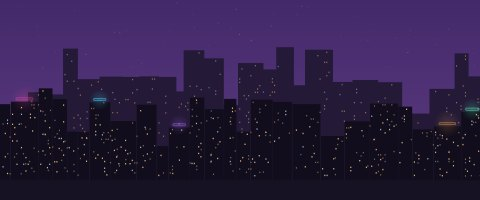
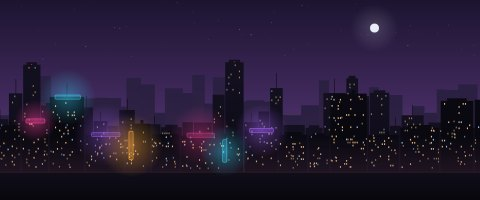
Neon rebuilt: a big city at night, in depth
A hazy far skyline under the city's violet-orange glow, towers with lit
windows, roof details and blinking aircraft lights, near buildings with
vertical and horizontal neon signs that flicker, a kerb line and a wet street
mirroring the signs. CPU lights more windows, GPU brightens the signs, a
notification (or the option) brings rain.

Claude-Session: https://claude.ai/code/session_01KZiqyKDbVFHqr1XB5ozT8u

diff --git a/plasma/wallpapers/org.pillbox.atmosphere/contents/ui/NeonScene.qml b/plasma/wallpapers/org.pillbox.atmosphere/contents/ui/NeonScene.qml
@@ -1,6 +1,9 @@
 /*
- * Neon – a city at night. CPU: more windows light up. GPU: the signs glow.
- * Unread: rain on a wet street that mirrors the signs. Evening: a violet sky.
+ * Neon – a big city at night, in depth. A hazy far skyline under the glow of the
+ * city, towers with lit windows and blinking aircraft lights, near buildings with
+ * roof details, vertical neon signs and a wet street that mirrors them.
+ * CPU: more windows light up. GPU: the signs glow brighter. Unread: rain
+ * (or always, as an option).
  * SPDX-License-Identifier: MIT
  */
 import QtQuick
@@ -9,112 +12,184 @@ import "palette.js" as P
 Item {
     id: scene
     property var env
-    readonly property real hour: env ? env.hour : 15
+    readonly property real hour: env ? env.hour : 22
     readonly property real t: env ? env.time : 0
     readonly property real cpu: env ? env.cpu : 0
     readonly property real gpu: env ? env.gpu : 0
     readonly property real eve: hour >= 17 && hour < 23 ? Math.min(1, (hour - 17) / 1.5) * Math.min(1, (23 - hour) / 1.5) : 0
-    readonly property var sky: P.sky(hour, [110, 60, 170], 0.18 + eve * 0.35)
+    readonly property var sky: P.sky(hour, [110, 60, 170], 0.2 + eve * 0.35)
     readonly property real night: sky.star
-    readonly property real s: height / 1440
-    readonly property real street: height * 0.9
-    readonly property real lit: Math.min(0.95, 0.08 + night * 0.3 + cpu * 0.55)
+    readonly property real dark: Math.max(night, eve * 0.6)
+    readonly property real k: Math.max(0.5, height / 1440)
+    readonly property real street: height * 0.86
+    readonly property real lit: Math.min(0.95, 0.06 + dark * 0.34 + cpu * 0.55)
+    readonly property real signGlow: Math.min(1, 0.12 + dark * 0.55 + gpu * 0.6)
+    readonly property string signMode: (env && env.cfg && env.cfg.NeonSigns) || "mixed"
+    readonly property var signTones: signMode === "pink" ? [[255, 80, 170], [255, 120, 210], [230, 90, 255]]
+                                   : signMode === "cyan" ? [[70, 220, 255], [90, 255, 220], [110, 170, 255]]
+                                   : [[255, 70, 160], [60, 220, 255], [170, 100, 255], [255, 170, 60]]
     property real wet: 0
     Behavior on wet { NumberAnimation { duration: 4000 } }
 
+    // ---------------------------------------------------------------- the city as data (built once per size)
+    // three rows: 0 far (hazy silhouettes), 1 mid (towers with windows), 2 near (wider, roof details)
     readonly property var blocks: {
         const out = []
-        if (width < 50 || height < 50) return out          // not laid out yet
-        for (let row = 0; row < 2; ++row) {
-            let x = -20, i = 0
-            while (x < width + 20) {
-                const w = (70 + P.rnd(i, row * 7 + 1) * 130) * s
-                const h = height * (row === 0 ? 0.3 + P.rnd(i, row * 7 + 2) * 0.38 : 0.16 + P.rnd(i, row * 7 + 3) * 0.3)
-                out.push({ x: x, w: w, h: h, row: row })
-                x += w + (row === 0 ? -10 : 4) * s; i++
+        if (width < 50 || height < 50) return out
+        const rows = [{ h0: 0.28, h1: 0.5, w0: 50, w1: 140, gap: -6 }, { h0: 0.22, h1: 0.56, w0: 70, w1: 170, gap: 6 }, { h0: 0.18, h1: 0.4, w0: 140, w1: 280, gap: 12 }]
+        for (let r = 0; r < 3; ++r) {
+            let x = -30, i = 0
+            const R = rows[r]
+            while (x < width + 30) {
+                const w = (R.w0 + P.rnd(i, r * 11 + 1) * (R.w1 - R.w0)) * k
+                const h = height * (R.h0 + Math.pow(P.rnd(i, r * 11 + 2), 1.6) * (R.h1 - R.h0))
+                out.push({ x: x, w: w, h: h, row: r, id: i, tall: h > height * (R.h1 - 0.06), roof: P.rnd(i, r * 11 + 3) })
+                x += w + R.gap * k; i++
             }
         }
         return out
     }
     readonly property var windowsList: {
-        const out = [], dims = blocks.map(k => [Math.floor((k.w - 14 * s) / (16 * s)), Math.floor((k.h - 24 * s) / (24 * s))])
-        const cells = dims.reduce((n, d) => n + Math.max(0, d[0]) * Math.max(0, d[1]), 0)
-        const keep = Math.min(0.5, 900 / Math.max(1, cells))       // at most ~900 windows, spread over the whole city
-        for (let b = 0; b < blocks.length; ++b) {
-            const k = blocks[b], cols = dims[b][0], rows = dims[b][1]
+        const out = []
+        const mids = blocks.filter(b => b.row >= 1)
+        const cells = mids.reduce((n, b) => n + Math.floor(b.w / (15 * k)) * Math.floor(b.h / (22 * k)), 0)
+        const keep = Math.min(0.55, 1000 / Math.max(1, cells))
+        for (const b of mids) {
+            const cols = Math.floor((b.w - 12 * k) / (15 * k)), rows = Math.floor((b.h - 26 * k) / (22 * k))
             for (let r = 0; r < rows; ++r) for (let c = 0; c < cols; ++c) {
-                const id = b * 1000 + r * 40 + c
-                if (P.rnd(id, 5) < keep) out.push({ x: k.x + 9 * s + c * 16 * s, y: street - k.h + 14 * s + r * 24 * s, row: k.row, k: P.rnd(id, 6), cool: P.rnd(id, 7) < 0.15 })
+                const id = b.row * 100000 + b.id * 400 + r * 20 + c
+                if (P.rnd(id, 5) < keep) out.push({ x: b.x + 8 * k + c * 15 * k, y: street - b.h + 16 * k + r * 22 * k, near: b.row === 2, q: P.rnd(id, 6), cool: P.rnd(id, 7) < 0.18 })
             }
         }
         return out
     }
     readonly property var signs: {
-        const mode = ((env && env.cfg && env.cfg.NeonSigns) || "mixed")
-        const tones = mode === "pink" ? [[255, 80, 170], [255, 110, 200], [230, 90, 255]]
-                    : mode === "cyan" ? [[70, 220, 255], [90, 255, 220], [110, 170, 255]]
-                    : [[255, 80, 170], [70, 220, 255], [170, 110, 255], [255, 180, 70], [90, 255, 190]]
         const out = []
         let n = 0
-        for (let b = 0; b < blocks.length && n < 6; ++b) {
-            const k = blocks[b]
-            if (k.row !== 1 || P.rnd(b, 9) > 0.45 || k.w < 90 * s) continue
-            out.push({ x: k.x + k.w * 0.18, y: street - k.h - 30 * s, w: k.w * 0.64, tone: tones[n % tones.length], i: n }); n++
+        for (const b of blocks) {
+            if (b.row !== 2 || n >= 7 || P.rnd(b.id, 9) > 0.55) continue
+            const vertical = P.rnd(b.id, 10) < 0.6
+            out.push({ x: b.x + b.w * (vertical ? 0.12 : 0.15), y: street - b.h * (vertical ? 0.85 : 0.98) - (vertical ? 0 : 26 * k),
+                       w: vertical ? 34 * k : b.w * 0.75, h: vertical ? b.h * 0.6 : 34 * k, i: n })
+            n++
         }
         return out
     }
 
+    // ---------------------------------------------------------------- sky with the city's glow
     Rectangle {
         anchors.fill: parent
         gradient: Gradient {
             GradientStop { position: 0; color: P.col(scene.sky.top) }
-            GradientStop { position: 0.9; color: P.col(scene.sky.bot) }
+            GradientStop { position: 0.55; color: P.col(P.mix(scene.sky.bot, [120, 60, 150], scene.dark * 0.35)) }
+            GradientStop { position: 0.8; color: P.col(P.mix(scene.sky.bot, [235, 120, 90], scene.dark * 0.35)) }
         }
     }
-    Stars { count: 60; band: 0.35; strength: scene.night * 0.6 }
+    Stars { count: 50; band: 0.3; strength: scene.night * 0.5 }
+    Item {
+        x: scene.width * 0.78; y: scene.height * 0.14
+        visible: scene.night > 0.35
+        Glow { r: scene.height * 0.12; tone: [230, 232, 250]; strength: 0.18 }
+        Rectangle { x: -scene.height * 0.022; y: x; width: -x * 2; height: width; radius: width / 2; color: "#e8ecf6" }
+    }
+
+    // ---------------------------------------------------------------- buildings, far to near
     Repeater {
         model: scene.blocks
-        Rectangle {
+        Item {
+            id: bld
             required property var modelData
+            readonly property int row: modelData.row
             x: modelData.x; y: scene.street - modelData.h; width: modelData.w; height: modelData.h
-            color: modelData.row === 0 ? P.col(P.mix(scene.sky.bot, [14, 12, 24], 0.72)) : P.col(P.mix(scene.sky.top, [8, 8, 14], 0.85))
+            Rectangle {
+                anchors.fill: parent
+                gradient: Gradient {
+                    GradientStop { position: 0; color: bld.row === 0 ? P.col(P.mix(scene.sky.bot, [40, 28, 60], 0.55)) : bld.row === 1 ? P.col(P.mix(scene.sky.top, [16, 14, 26], 0.75)) : P.col(P.mix(scene.sky.top, [8, 8, 14], 0.88)) }
+                    GradientStop { position: 1; color: bld.row === 0 ? P.col(P.mix(scene.sky.bot, [70, 40, 70], 0.45)) : bld.row === 1 ? P.col(P.mix(scene.sky.top, [10, 9, 18], 0.85)) : P.col(P.mix(scene.sky.top, [5, 5, 9], 0.93)) }
+                }
+            }
+            // roof details on the near row: a water tower, an antenna or a stepped top
+            Rectangle {
+                visible: bld.row === 2 && bld.modelData.roof < 0.33
+                x: parent.width * 0.6; y: -height; width: 22 * scene.k; height: 26 * scene.k; radius: 3
+                color: P.col(P.mix(scene.sky.top, [8, 8, 14], 0.88))
+            }
+            Rectangle {
+                visible: bld.row >= 1 && bld.modelData.roof >= 0.33 && bld.modelData.roof < 0.6
+                x: parent.width * 0.5; y: -height; width: Math.max(1.5, 2 * scene.k); height: parent.height * 0.18
+                color: P.col(P.mix(scene.sky.top, [8, 8, 14], 0.85))
+            }
+            Rectangle {
+                visible: bld.row >= 1 && bld.modelData.roof >= 0.6
+                x: parent.width * 0.2; y: -height; width: parent.width * 0.6; height: 18 * scene.k
+                color: P.col(P.mix(scene.sky.top, bld.row === 2 ? [8, 8, 14] : [16, 14, 26], bld.row === 2 ? 0.88 : 0.75))
+            }
+            // aircraft warning light on the tallest towers
+            Rectangle {
+                visible: bld.modelData.tall && bld.row <= 1 && scene.dark > 0.2
+                x: parent.width / 2 - width / 2; y: -height - (bld.modelData.roof >= 0.33 && bld.modelData.roof < 0.6 ? parent.height * 0.18 : 0)
+                width: 5 * scene.k; height: width; radius: width / 2
+                color: "#ff4040"
+                opacity: (Math.sin(scene.t * 2.2 + bld.modelData.id) > 0.3 ? 1 : 0.15) * scene.dark
+            }
         }
     }
     Repeater {
         model: scene.windowsList
         Rectangle {
             required property var modelData
-            visible: modelData.k < scene.lit
-            x: modelData.x; y: modelData.y; width: 7 * scene.s; height: 10 * scene.s
-            color: modelData.cool ? "#9fd8ff" : "#ffd28c"
-            opacity: modelData.row === 0 ? 0.45 : 0.85
+            visible: modelData.q < scene.lit
+            x: modelData.x; y: modelData.y; width: 7 * scene.k; height: 11 * scene.k
+            color: modelData.cool ? "#a8dcff" : "#ffd08a"
+            opacity: modelData.near ? 0.9 : 0.55
         }
     }
+    // low haze in the street canyons
+    Rectangle {
+        y: scene.street - scene.height * 0.18; width: parent.width; height: scene.height * 0.2
+        opacity: 0.35 + scene.dark * 0.25
+        gradient: Gradient {
+            GradientStop { position: 0; color: "transparent" }
+            GradientStop { position: 1; color: P.col(P.mix(scene.sky.bot, [200, 100, 140], scene.dark * 0.4), 0.5) }
+        }
+    }
+
+    // the street
     Rectangle {
         y: scene.street; width: parent.width; height: parent.height - scene.street
-        color: P.col(P.mix(scene.sky.top, [12, 11, 18], 0.8))
+        gradient: Gradient {
+            GradientStop { position: 0; color: P.col(P.mix(scene.sky.top, [14, 12, 20], 0.8)) }
+            GradientStop { position: 1; color: P.col(P.mix(scene.sky.top, [6, 6, 10], 0.9)) }
+        }
     }
+    Rectangle {                                                  // kerb light line
+        y: scene.street; width: parent.width; height: Math.max(1, 2 * scene.k)
+        color: P.col(P.mix([255, 190, 140], scene.sky.bot, 0.5), 0.25 + scene.dark * 0.3)
+    }
+
+    // ---------------------------------------------------------------- neon signs and their reflections
     Repeater {
         model: scene.signs
         Item {
             id: sign
             required property var modelData
-            readonly property real glow: (0.15 + scene.night * 0.35 + scene.gpu * 0.7) * (0.88 + 0.12 * Math.sin(scene.t * 5 + modelData.i * 2))
+            readonly property var tone: scene.signTones[modelData.i % scene.signTones.length]
+            readonly property real glow: scene.signGlow * (0.86 + 0.14 * Math.sin(scene.t * 6 + modelData.i * 2.3)) * (P.rnd(modelData.i, Math.floor(scene.t * 3)) > 0.04 ? 1 : 0.4)
             x: modelData.x; y: modelData.y
-            Item { x: sign.modelData.w / 2; y: 10 * scene.s; Glow { r: sign.modelData.w * 0.8; tone: sign.modelData.tone; strength: 0.3 * sign.glow } }
+            Item { x: sign.modelData.w / 2; y: sign.modelData.h / 2; Glow { r: Math.max(sign.modelData.w, sign.modelData.h) * 1.1; tone: sign.tone; strength: 0.5 * sign.glow } }
             Rectangle {
-                width: sign.modelData.w; height: 20 * scene.s; radius: height / 2
-                color: P.col(sign.modelData.tone, 0.18 * sign.glow)
-                border.width: Math.max(1.5, 2 * scene.s); border.color: P.col(sign.modelData.tone, Math.min(1, sign.glow))
+                width: sign.modelData.w; height: sign.modelData.h; radius: Math.min(width, height) * 0.35
+                color: P.col(sign.tone, 0.28 * sign.glow)
+                border.width: Math.max(2, 4 * scene.k); border.color: P.col(sign.tone, Math.min(1, sign.glow))
             }
-            // its mirror image on the wet street
+            // the sign's mirror on the wet street
             Rectangle {
                 visible: scene.wet > 0.02
-                y: scene.street - sign.modelData.y + 4 * scene.s
-                width: sign.modelData.w; height: (scene.height - scene.street) * 0.9
-                opacity: scene.wet * sign.glow * 0.6
+                y: (scene.street - sign.modelData.y) + (scene.street - sign.modelData.y - sign.modelData.h) * 0 + 4 * scene.k
+                width: sign.modelData.w; height: (scene.height - scene.street) * 0.95
+                opacity: scene.wet * sign.glow * 0.8
                 gradient: Gradient {
-                    GradientStop { position: 0; color: P.col(sign.modelData.tone, 0.5) }
+                    GradientStop { position: 0; color: P.col(sign.tone, 0.55) }
                     GradientStop { position: 1; color: "transparent" }
                 }
             }
